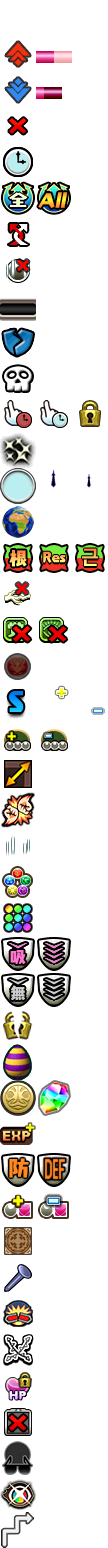
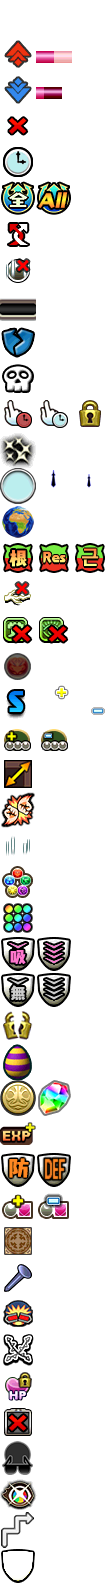
加入破白盾的技能解析

diff --git a/script-json_data.js b/script-json_data.js
@@ -238,6 +238,7 @@ let localTranslating = {
 			maxhp: tp`${'icon'}Max HP`,
 			hp: tp`HP`,
 			chp: tp`current HP`,
+			shield: tp`shield`,
 			atk: tp`ATK`,
 			rcv: tp`RCV`,
 			teamhp: tp`Team HP`,
@@ -2320,7 +2321,10 @@ const specialSearchFunctions = (function() {
 					const skill = getCardActiveSkill(card, searchTypeArray);
 					if (!skill) return;
 					const sk = skill.params;
-					return document.createTextNode(`威吓×${sk[0]}T`);
+					const fragment = document.createDocumentFragment();
+					fragment.appendChild(createSkillIcon('delay'));
+					fragment.append(`×${sk[0]}T`);
+					return fragment;
 				}
 			},
 			{name:"Reduces enemies' DEF(sort by rate)",otLangName:{chs:"破防（按防御减少比例排序）",cht:"破防（按防禦減少比例排序）"},
@@ -2336,7 +2340,10 @@ const specialSearchFunctions = (function() {
 					const skill = getCardActiveSkill(card, searchTypeArray);
 					if (!skill) return;
 					const sk = skill.params;
-					return `破防${sk[1]}%×${sk[0]}T`;
+					const fragment = document.createDocumentFragment();
+					fragment.appendChild(createSkillIcon('def-break'));
+					fragment.append(`${sk[1]}%×${sk[0]}T`);
+					return fragment;
 				}
 			},
 			{name:"Poisons enemies(sort by rate)",otLangName:{chs:"中毒（按毒伤比率排序）",cht:"中毒（按毒傷比率排序）"},
@@ -2352,7 +2359,10 @@ const specialSearchFunctions = (function() {
 					const skill = getCardActiveSkill(card, searchTypeArray);
 					if (!skill) return;
 					const sk = skill.params;
-					return `攻击力×${sk[0]/100}倍`;
+					const fragment = document.createDocumentFragment();
+					fragment.appendChild(createSkillIcon('poison'));
+					fragment.append(`ATK×${sk[0]/100}`);
+					return fragment;
 				}
 			},
 			{name:"Change enemies's Attr(sort by attr)",otLangName:{chs:"改变敌人属性（按属性排序）",cht:"改變敵人屬性（按屬性排序）"},
@@ -2389,8 +2399,9 @@ const specialSearchFunctions = (function() {
 					const sk = skill.params;
 					
 					const fragment = document.createDocumentFragment();
-					fragment.appendChild(document.createTextNode(`${sk[1]/100}倍`));
+					fragment.appendChild(createSkillIcon('counter-attack'));
 					fragment.appendChild(createOrbsList(sk[2]));
+					fragment.appendChild(document.createTextNode(`×${sk[1]/100}倍`));
 					fragment.appendChild(document.createTextNode(`×${sk[0]}T`));
 		
 					return fragment;
@@ -3242,6 +3253,25 @@ const specialSearchFunctions = (function() {
 					}).sort((a,b)=>sortByParams(a,b,searchTypeArray));
 				},
 				addition: gravity_Addition
+			},
+			{name:"Breaking Shield",otLangName:{chs:"破白盾",cht:"破白盾"},
+				function:cards=>{
+					const searchTypeArray = [259];
+					return cards.filter(card=>{
+						const skill = getCardActiveSkill(card, searchTypeArray);
+						return skill;
+					}).sort((a,b)=>sortByParams(a,b,searchTypeArray));
+				},
+				addition:card=>{
+					const searchTypeArray = [259];
+					const skill = getCardActiveSkill(card, searchTypeArray);
+					if (!skill) return;
+					const sk = skill.params;
+					const fragment = document.createDocumentFragment();
+					fragment.appendChild(createSkillIcon('breaking-shield'));
+					fragment.append(`-${sk[0]}%`);
+					return fragment;
+				}
 			},
 		]},
 		{group:true,name:"-----Damage Enemy - Fixed damage-----",otLangName:{chs:"-----对敌直接伤害类-无视防御固伤-----",cht:"-----對敵直接傷害類-無視防禦固傷-----"}, functions: [

diff --git a/script-skill-parser.js b/script-skill-parser.js
@@ -479,6 +479,7 @@ const SkillKinds = {
 	BoardJammingStates: "board-jamming-states",
 	RemoveAssist: "remove-assist",
 	PredictionFalling: "prediction-falling",
+	BreakingShield: "breaking-shield",
 }
 
 function skillParser(skillId)
@@ -815,6 +816,9 @@ const v = {
 	xCHP: function(value) {
 		return { kind: SkillValueKind.xCHP, value: (value / 100) ?? 1 };
 	},
+	xShield: function(value) {
+		return { kind: SkillValueKind.xShield, value: (value / 100) ?? 1 };
+	},
 	xATK: function(value) {
 		return { kind: SkillValueKind.xATK, value: (value / 100) ?? 1 };
 	},
@@ -1066,6 +1070,9 @@ function removeAssist() {
 }
 function predictionFalling() {
 	return { kind: SkillKinds.PredictionFalling };
+}
+function breakingShield(value) {
+	return { kind: SkillKinds.BreakingShield, value: value };
 }
 
 const skillObjectParsers = {
@@ -1709,6 +1716,7 @@ const skillObjectParsers = {
 			increaseDamageCap(cap * 1e8, typeArr)
 		);
 	},
+	[259](percent) { return breakingShield(v.xShield(percent)); },
 	[1000](type, pos, ...ids) {
 		const posType = (type=>{
 			switch (type) {
@@ -2283,7 +2291,7 @@ function renderSkill(skill, option = {})
 			frg.ap(tsp.skill.drum());
 			break;
 		}
-		case SkillKinds.AutoPath: { //小龙的萌新技能
+		case SkillKinds.AutoPath: { //自动路径，小龙的萌新技能
 			const {matchesNumber} = skill;
 			frg.ap(tsp.skill.auto_path({
 				icon: createIcon(skill.kind),
@@ -2757,6 +2765,15 @@ function renderSkill(skill, option = {})
 				icon: createIcon(skill.kind)
 			};
 			frg.ap(tsp.skill.prediction_falling(dict));
+			break;
+		}
+		case SkillKinds.BreakingShield: { //破白盾
+			let dict = {
+				icon: createIcon(skill.kind),
+				target: tsp.target.enemy(),
+				value: renderValue(skill.value, { percent:true }),
+			};
+			frg.ap(tsp.skill.gravity(dict));
 			break;
 		}
 		
@@ -3313,6 +3330,18 @@ function renderValue(_value, option = {}) {
 			dict = {
 				value: option.percent ? (_value.value * 100).keepCounts(od,os) : _value.value.keepCounts(od,os),
 				stats: renderStat('chp'),
+			};
+			frg.ap(
+				option.percent ? 
+				tspv.mul_of_percent(dict) :
+				tspv.mul_of_times(dict)
+			);
+			break;
+		}
+		case SkillValueKind.xShield: {
+			dict = {
+				value: option.percent ? (_value.value * 100).keepCounts(od,os) : _value.value.keepCounts(od,os),
+				stats: renderStat('shield'),
 			};
 			frg.ap(
 				option.percent ? 

diff --git a/service-worker.js b/service-worker.js
@@ -27591,11 +27591,11 @@ const cachesMap = new Map([
 	],
 	[
 		"script-json_data.js",
-		"c561981bc04e8cb4d34854e82f693225"
+		"a35ace305c9c34d939adff8af66327ed"
 	],
 	[
 		"script-skill-parser.js",
-		"7fd84302ec5dc1d1a7b68a8f4bbec9d5"
+		"5d5e6d38d82035de49807f72b2d8b0c3"
 	],
 	[
 		"script-universal_function.js",
@@ -27615,7 +27615,7 @@ const cachesMap = new Map([
 	],
 	[
 		"style.css",
-		"422f4ee07beebce7698f9ea55978721a"
+		"83e798ecd23802bb1d6b755dca6d8392"
 	],
 	[
 		"temp.js",
@@ -27659,7 +27659,7 @@ const cachesMap = new Map([
 	],
 	[
 		"languages/zh-hans.js",
-		"1cb9427d980613750be284b683b6c965"
+		"e8f4e76f67a4cbb4a72517e6f17434ee"
 	],
 	[
 		"languages/zh-hant.css",
@@ -27667,7 +27667,7 @@ const cachesMap = new Map([
 	],
 	[
 		"languages/zh-hant.js",
-		"2d62a0b2c437f20580881351ed0f2faf"
+		"bede32cfeaa26e46a4cd26d57c319378"
 	],
 	[
 		"images/attrs.png",
@@ -27803,7 +27803,7 @@ const cachesMap = new Map([
 	],
 	[
 		"images/icon-skills.png",
-		"0554abb63a36baf0348ba844e7aa10f4"
+		"924dcf954c1f7def6addc3f62e17e028"
 	],
 	[
 		"images/icon-switch-leader.png",

diff --git a/style.css b/style.css
@@ -4587,6 +4587,10 @@ body.external-link-support #external-support{
 {
 	background-position-y:calc(-36px * 42);
 }
+.icon-skill[data-icon-type="breaking-shield"]
+{
+	background-position-y:calc(-36px * 43);
+}
 
 :where(:lang(en), :lang(ko)) .icon-skill:where(
 	[data-icon-type="mass-attack"],

diff --git a/languages/zh-hans.js b/languages/zh-hans.js
@@ -224,6 +224,7 @@ const _localTranslating = {
 			maxhp: tp`${'icon'}最大HP`,
 			hp: tp`HP`,
 			chp: tp`当前HP`,
+			shield: tp`护盾`,
 			atk: tp`攻击力`,
 			rcv: tp`回复力`,
 			teamhp: tp`队伍总HP`,

diff --git a/languages/zh-hant.js b/languages/zh-hant.js
@@ -224,6 +224,7 @@ const _localTranslating = {
 			maxhp: tp`最大HP`,
 			hp: tp`HP`,
 			chp: tp`當前HP`,
+			shield: tp`護盾`,
 			atk: tp`攻擊力`,
 			rcv: tp`回復力`,
 			teamhp: tp`隊伍總HP`,
